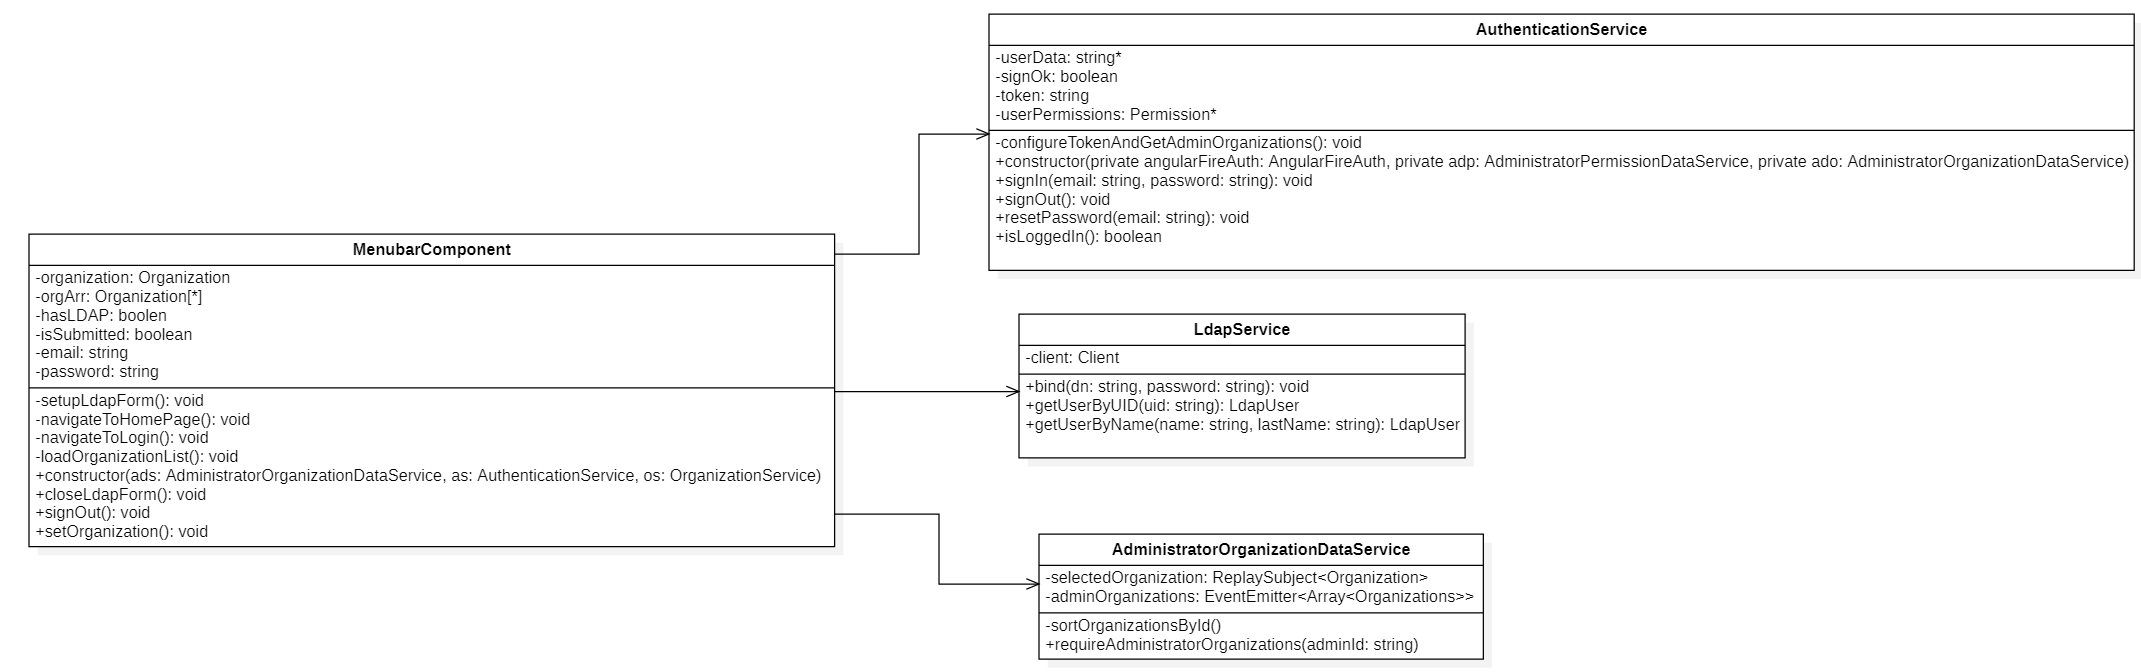
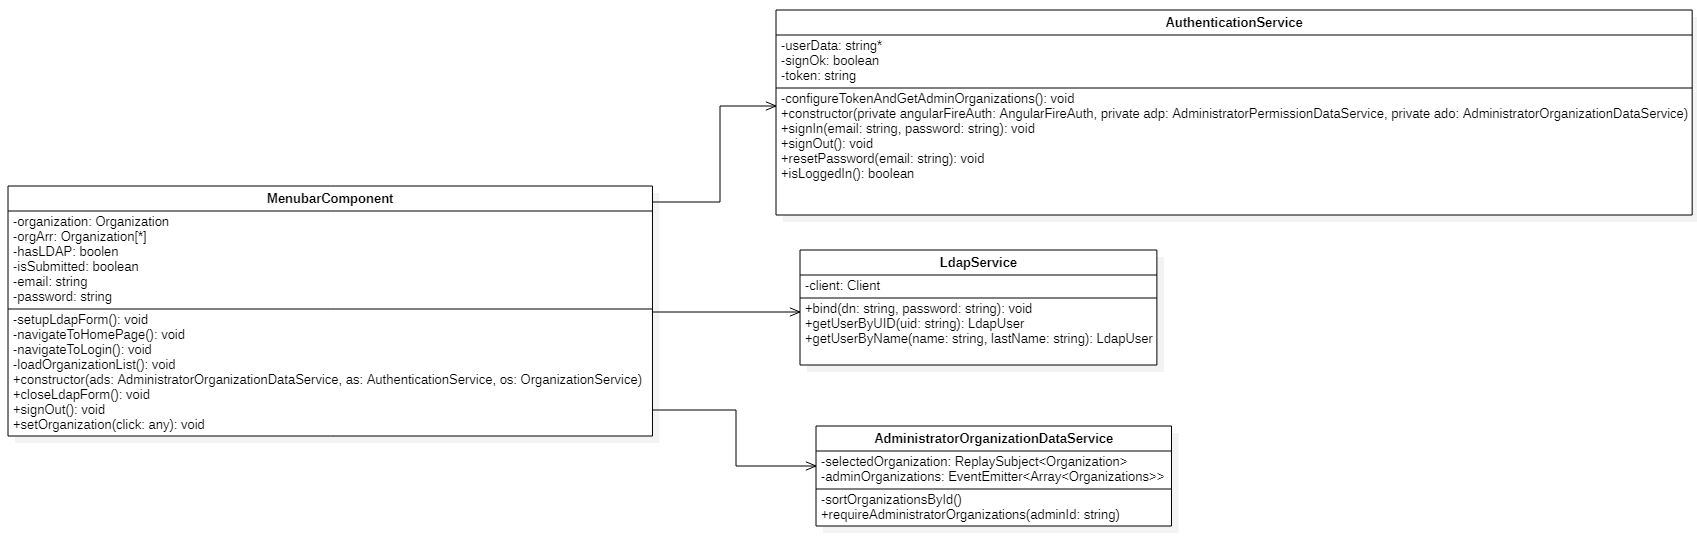
aggiornamento menubar

diff --git a/DocumentazioneEsterna/ManualeSviluppatore/docs/webapp/classi.md b/DocumentazioneEsterna/ManualeSviluppatore/docs/webapp/classi.md
@@ -78,11 +78,14 @@ Analogamente per **PlacePresenceNumberContentComponent** ha una associazione con
 
 Nel precedente diagramma viene illustrato come è stata progettata la funzionalità di autenticazione nella applicazione web<sup>G</sup>. 
 
-**LoginComponent** contiene gli attributi, **submitted** per indicare se è stato cliccato il bottone *invio*, email contiene l'email inserita, password contiene la password inserita,ha i seguenti metodi:
+**LoginComponent** contiene gli attributi, **submitted** per indicare se è stato cliccato il bottone *invio*, **email** contiene l'email inserita, **password** contiene la password inserita,ha i seguenti metodi:
 
 -   **setupLoginForm()**: offre la possibilità di inserire email e password per l'autenticazione e di controllare se sono in una forma valida. 
+
 -   **onSubmit()**: modificare submitted col valore *true*;
+
 -   **sign()**: richiamare i metodi per il login;
+
 -   **callResetPassword()**: metodo che viene chiamato quando l'utente clicca sul pulsante *password dimenticata* per chiamare il controllor **ResetPasswordComponent**.
 
 **ResetPasswordComponent** ha gli stessi attributi del controllor precedentemente descritto e più o meno gli stessi metodi, si segnala il metodo **resetPassword()** per richiamare i metodi per il reset della password.
@@ -109,8 +112,24 @@ L' altra associazione che ha **AuthenticationService** è **AdministratorOrganiz
 ![!alt text](../Immagini/WebApp/menubar.PNG "diagramma delle classi")
 <figcaption align=center> <em> Diagramma delle classi - Menubar </em> </figcaption>
 
-Nel precedente diagramma viene mostrato come è stato progettato il component **Manubar**. **Menubar** è un component che permette di gestire gli eventi generati della componente grafica omonima *menubar*. Questi eventi possono richiedere azioni di logout<sup>G</sup> perciò esiste una associazione con **AuthenticationService**, azioni di selezione di una organizzazioni tra quelle disponibili e quindi si ha una associazione con **AdministratorOrganizationDataService** che offre la lista delle organizzazione da cui selezionare l'organizzazione che sarà memorizzata in **AdministratorOrganizationDataService** è ritornarla a chi lo richiede, e infine l'azione di autenticazione LDAP<sup>G</sup> nel caso in cui l'amministratore selezione una organizzazione che richiede tale tipo di autenticazione. Quindi esiste una associazione con **LDAPService** che offre l'autenticazione LDAP<sup>G</sup>.
+Nel precedente diagramma viene mostrato come è stato progettato il component **Manubar**. **Menubar** è un component che permette di gestire gli eventi generati della componente grafica omonima *menubar*. 
+Contiene i seguenti attributi, **organization** che contiene l'organizzazione selezionata dall'utente, **orgArr**, contiene la lista delle organizzazioni da mostrare all'utente, **hasLDAP** se l'organizzazione selezionata richiede autenticazione LDAP<sup>G</sup>, **isSubmitted** per indicare se è stato cliccato il bottone *invio*, **email** contiene l'email inserita, **password** contiene la password inserita,ha i seguenti metodi:
 
+-   **setupLdapForm()**: offre la possibilità di inserire email e password per l'autenticazione LDAP e di controllare se sono in una forma valida;
+
+-   **navigateToHomePage()**: per gestire l'evento di navigazione verso la *homepage*;
+
+-   **navigateToLogin()**: per gestire l'evento di navigazione verso la pagina di *Login* dopo il <sup>logout</sup>;
+
+-   **loadOrganizationList()**: carica la lista delle organizzazione da mostrare all'utente;
+
+-   **closeLdapForm()**: gestisce la chiusura del *pop-up* per l'autenticazione <sup>LDAP</sup>;
+
+-   **signOut()**: richiama il metodo per il <sup>logout()</sup>;
+
+-   **setOrganization(click:any)**: modifica **organization** con l'organizzazione selezionata dall'utente.
+
+perciò esiste una associazione con **AuthenticationService** per gestire il logout<sup>G</sup>, esiste una associazione con **AdministratorOrganizationDataService** che offre la lista delle organizzazione da cui selezionare l'organizzazione che sarà memorizzata in **AdministratorOrganizationDataService** è ritornarla a chi lo richiede, e infine esiste una associazione con **LDAPService** che offre l'autenticazione LDAP<sup>G</sup>.
 ## Organization management
 
 ![!alt text](../Immagini/WebApp/OrgManagement.PNG "diagramma delle classi")
